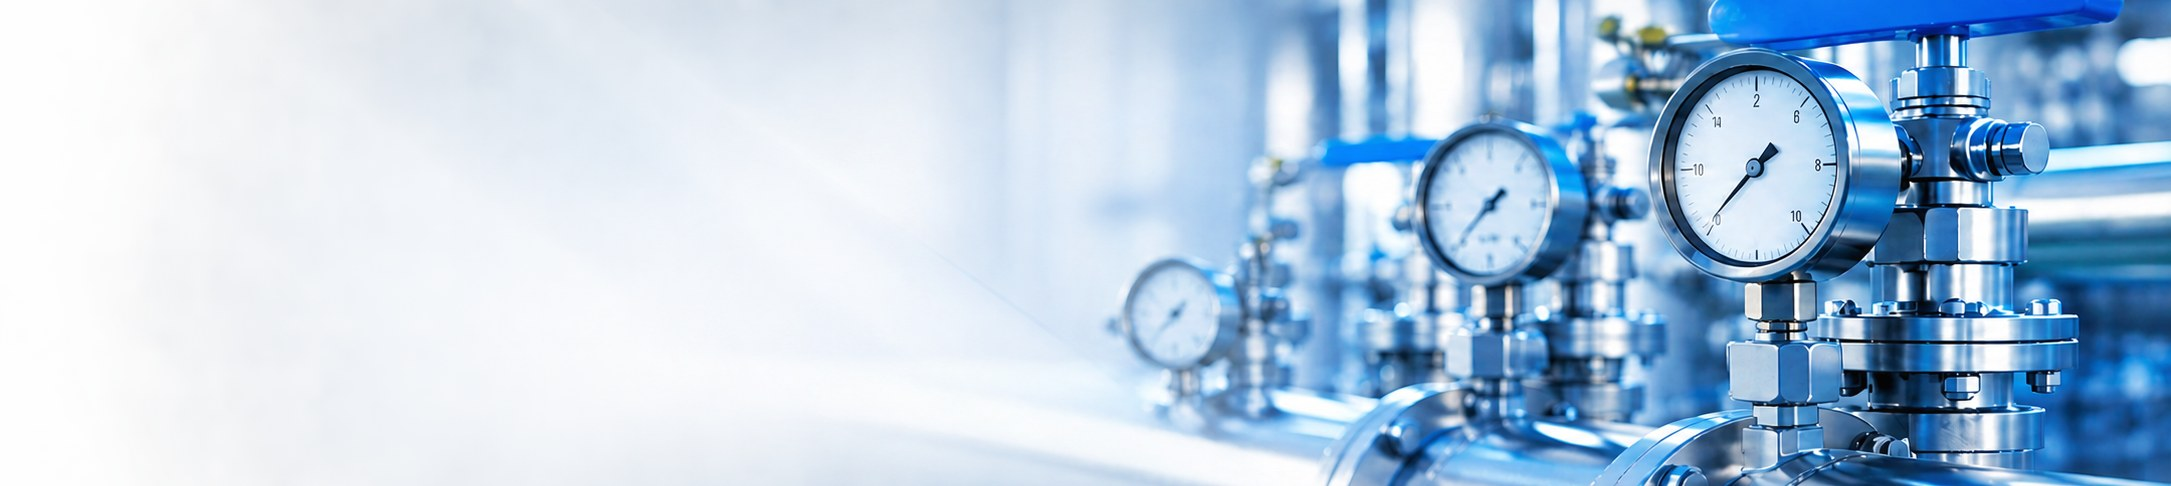
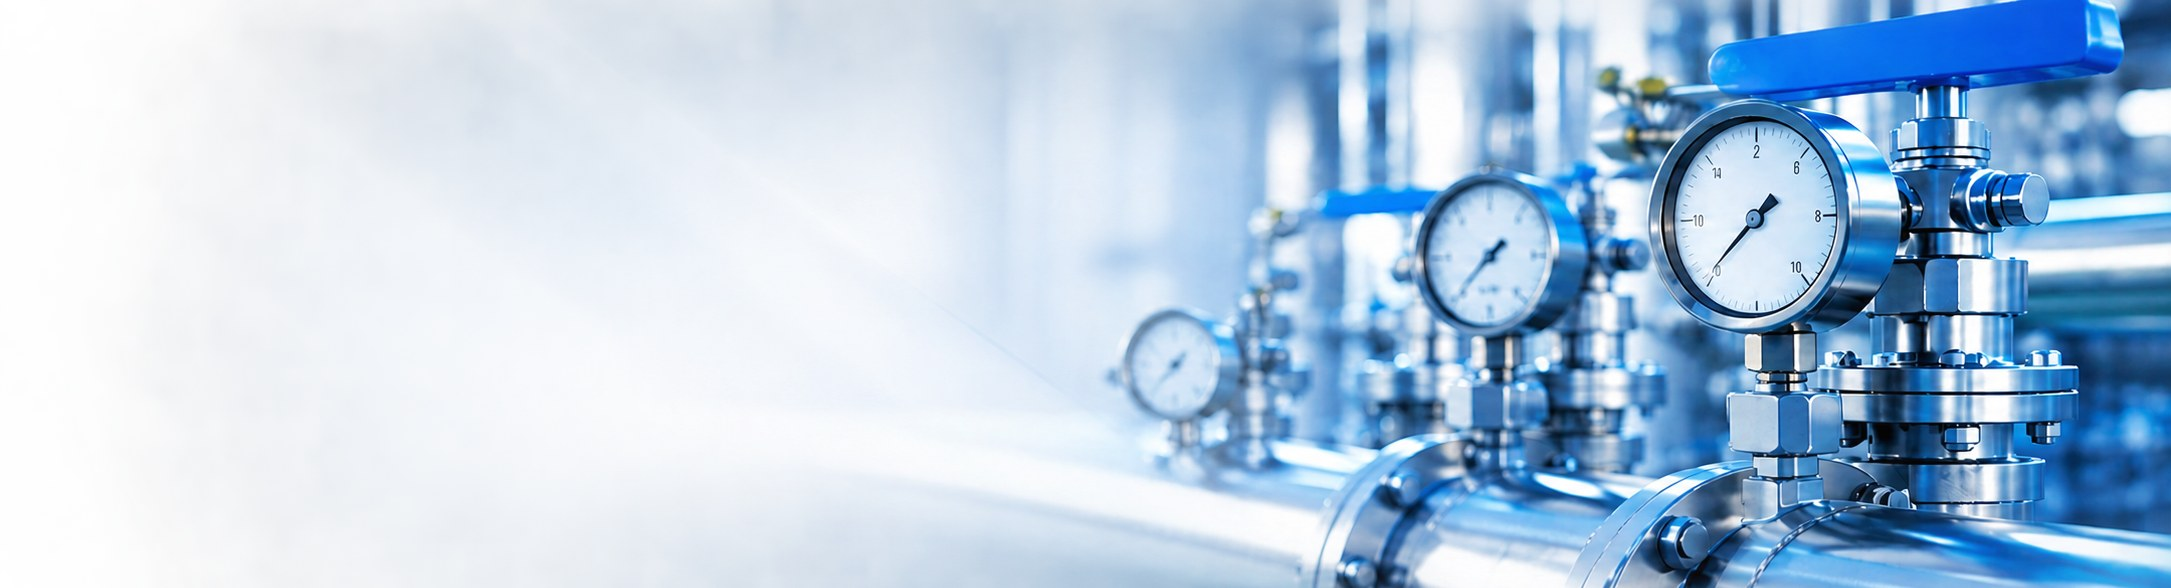
가스제품 히어로: 배경을 참고 비율(3.69:1)로 재크롭해 배너 높이 확대·콘텐츠 여백 확보. page-hero-gas.jpg ?v=20260912b

diff --git a/products-gas.html b/products-gas.html
@@ -64,7 +64,7 @@
   </header>
 
   <section class="page-banner page-banner--overlay">
-    <img class="page-banner__bg" src="assets/images/site/page-hero-gas.jpg?v=20260912" alt="산업용가스 배관·계측 설비">
+    <img class="page-banner__bg" src="assets/images/site/page-hero-gas.jpg?v=20260912b" alt="산업용가스 배관·계측 설비">
     <div class="gas-banner">
       <div class="gas-banner__wrap">
         <div class="gas-banner__col">
